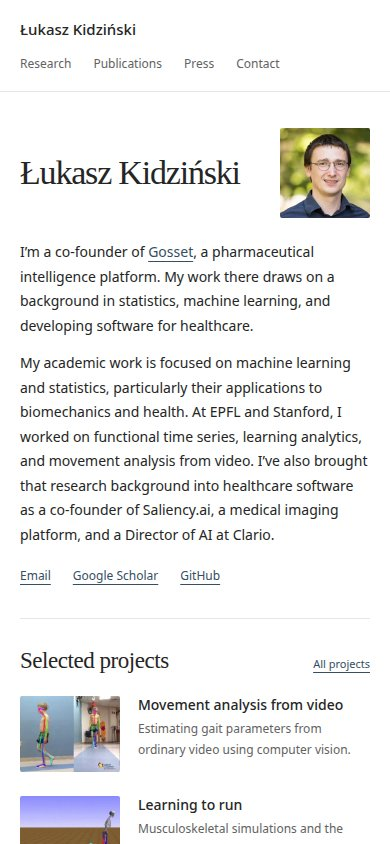
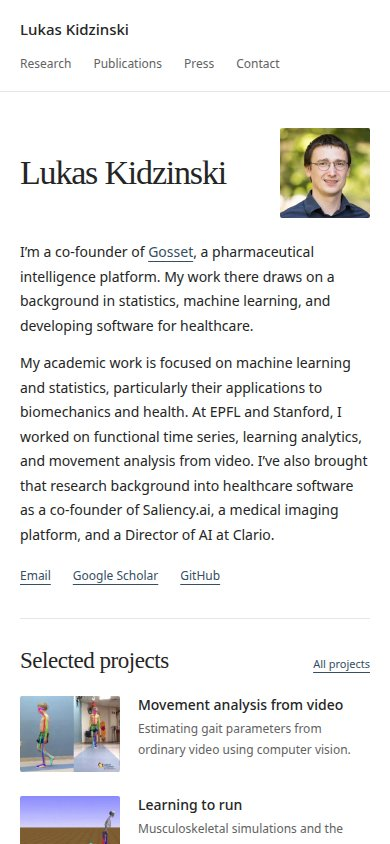
Use Lukas Kidzinski as the website display name

Changed region(s): [[0.2462, 0.1848, 0.6154, 0.2156], [0.1538, 0.0308, 0.3692, 0.0616]]

diff --git a/layouts/baseof.html b/layouts/baseof.html
@@ -14,7 +14,7 @@
   <meta property="og:description" content="{{ $description }}">
   <meta property="og:url" content="{{ .Permalink }}">
   <meta property="og:image" content="{{ "img/profile.jpg" | absURL }}">
-  <meta property="og:image:alt" content="Portrait of Łukasz Kidziński">
+  <meta property="og:image:alt" content="Portrait of {{ site.Title }}">
   <meta name="twitter:card" content="summary">
   <meta name="theme-color" content="#ffffff">
   <link rel="icon" href="{{ "favicon.svg" | relURL }}" type="image/svg+xml">
@@ -27,7 +27,7 @@
   <a class="skip-link" href="#main">Skip to content</a>
   <header class="site-header">
     <div class="shell header-inner">
-      <a class="wordmark" href="{{ site.Home.RelPermalink }}" aria-label="Łukasz Kidziński, home">Łukasz Kidziński</a>
+      <a class="wordmark" href="{{ site.Home.RelPermalink }}" aria-label="{{ site.Title }}, home">{{ site.Title }}</a>
       <nav aria-label="Main navigation">
         <div class="nav-links" id="nav-links">
           <a href="{{ site.Home.RelPermalink }}#research">Research</a>
@@ -39,6 +39,6 @@
     </div>
   </header>
   <main id="main" tabindex="-1">{{ block "main" . }}{{ end }}</main>
-  <footer class="site-footer shell"><span>© {{ now.Year }} Łukasz Kidziński</span><a href="{{ site.Params.github }}">GitHub</a></footer>
+  <footer class="site-footer shell"><span>© {{ now.Year }} {{ site.Title }}</span><a href="{{ site.Params.github }}">GitHub</a></footer>
 </body>
 </html>

diff --git a/layouts/home.html b/layouts/home.html
@@ -1,8 +1,8 @@
 {{ define "main" }}
 {{ $home := hugo.Data.home }}
 <section class="intro shell" id="about" aria-labelledby="intro-title">
-  <h1 id="intro-title">Łukasz Kidziński</h1>
-  <img class="portrait" src="{{ "img/modern/portrait.webp" | relURL }}" width="160" height="160" alt="Łukasz Kidziński" fetchpriority="high">
+  <h1 id="intro-title">{{ site.Title }}</h1>
+  <img class="portrait" src="{{ "img/modern/portrait.webp" | relURL }}" width="160" height="160" alt="{{ site.Title }}" fetchpriority="high">
   <div class="intro-copy">
     <p id="work">I’m a co-founder of <a href="https://gosset.ai/">Gosset</a>, a pharmaceutical intelligence platform. My work there draws on a background in statistics, machine learning, and developing software for healthcare.</p>
     <p>{{ $home.intro }}</p>

diff --git a/content/publication/opencap.md b/content/publication/opencap.md
@@ -1,7 +1,7 @@
 +++
 title = "OpenCap: Human movement dynamics from smartphone videos"
 date = "2023-10-19"
-authors = ["Scott D. Uhlrich", "Antoine Falisse", "Łukasz Kidziński", "Julie Muccini", "Michael Ko", "Akshay S. Chaudhari", "Jennifer L. Hicks", "Scott L. Delp"]
+authors = ["Scott D. Uhlrich", "Antoine Falisse", "Lukas Kidzinski", "Julie Muccini", "Michael Ko", "Akshay S. Chaudhari", "Jennifer L. Hicks", "Scott L. Delp"]
 publication = "PLOS Computational Biology"
 publication_types = ["2"]
 selected = true
@@ -13,6 +13,6 @@ url_code = "https://github.com/opencap-org/opencap-core"
 
 OpenCap combines video-based pose estimation, machine learning, and biomechanical simulation to estimate human movement and musculoskeletal forces from two or more smartphone cameras.
 
-Scott D. Uhlrich, Antoine Falisse, and Łukasz Kidziński contributed equally to this work.
+Scott D. Uhlrich, Antoine Falisse, and Lukas Kidzinski contributed equally to this work.
 
 Read the [published paper](https://doi.org/10.1371/journal.pcbi.1011462) for the methods, validation, and study limitations.

diff --git a/content/publication/gait-video.md b/content/publication/gait-video.md
@@ -1,7 +1,7 @@
 +++
 title = "Deep neural networks enable quantitative movement analysis using single-camera videos"
 date = "2020-08-13"
-authors = ["Łukasz Kidziński", "Bryan Yang", "Jennifer L. Hicks", "Apoorva Rajagopal", "Scott L. Delp", "Michael H. Schwartz"]
+authors = ["Lukas Kidzinski", "Bryan Yang", "Jennifer L. Hicks", "Apoorva Rajagopal", "Scott L. Delp", "Michael H. Schwartz"]
 publication = "Nature Communications"
 publication_types = ["2"]
 selected = true
@@ -13,6 +13,6 @@ projects = ["video-analysis"]
 
 We developed machine learning methods for estimating gait metrics from ordinary single-camera videos of children with cerebral palsy. The work explores how computer vision could make quantitative movement analysis more accessible.
 
-Łukasz Kidziński and Bryan Yang contributed equally to this work.
+Lukas Kidzinski and Bryan Yang contributed equally to this work.
 
 Read the [published paper](https://www.nature.com/articles/s41467-020-17807-z) for the methods, validation, and study limitations.

diff --git a/content/publication/dysgraphia.md b/content/publication/dysgraphia.md
@@ -3,7 +3,7 @@ title = "Automated human-level diagnosis of dysgraphia using a consumer tablet"
 date = "2018-11-05"
 
 # Authors. 
-authors = ["Thibault Asselborn", "Thomas Gargot", "Łukasz Kidziński", "Wafa Johal", "David Cohen", "Caroline Jolly", "Pierre Dillenbourg" ]
+authors = ["Thibault Asselborn", "Thomas Gargot", "Lukas Kidzinski", "Wafa Johal", "David Cohen", "Caroline Jolly", "Pierre Dillenbourg" ]
 
 # Publication type.
 # Legend:

diff --git a/README.md b/README.md
@@ -1,6 +1,6 @@
 # kidzinski.com
 
-Personal website for Łukasz Kidziński, built with Hugo and a small, local template system. No theme checkout, npm packages, web fonts, analytics scripts, or runtime framework are required.
+Personal website for Lukas Kidzinski, built with Hugo and a small, local template system. No theme checkout, npm packages, web fonts, analytics scripts, or runtime framework are required.
 
 ## Preview and build
 

diff --git a/content/publication/effect-size.md b/content/publication/effect-size.md
@@ -3,7 +3,7 @@ title = "Estimating the effect size of surgery to improve walking in children wi
 date = "2018-11-05"
 
 # Authors. 
-authors = ["Apoorva Rajagopal", "Łukasz Kidziński", "Alec S. McGlaughlin", "Jennifer L. Hicks", "Scott L. Delp", "Michael H. Schwartz"]
+authors = ["Apoorva Rajagopal", "Lukas Kidzinski", "Alec S. McGlaughlin", "Jennifer L. Hicks", "Scott L. Delp", "Michael H. Schwartz"]
 
 # Publication type.
 # Legend:

diff --git a/content/publication/orchestration.md b/content/publication/orchestration.md
@@ -3,7 +3,7 @@ title = "Orchestration Load Indicators and Patterns: In-the-wild Studies Using M
 date = "2017-06-02"
 
 # Authors. 
-authors = ["Luis P. Prieto", "Kshitij Sharma", "Łukasz Kidziński", "Pierre Dillenbourg"]
+authors = ["Luis P. Prieto", "Kshitij Sharma", "Lukas Kidzinski", "Pierre Dillenbourg"]
 
 # Publication type.
 # Legend:

diff --git a/content/publication/how-do-video.md b/content/publication/how-do-video.md
@@ -3,7 +3,7 @@ title = "How Do In-video Interactions Reflect Perceived Video Difficulty?"
 date = "2015-06-02"
 
 # Authors. 
-authors = ["Nan Li", "Łukasz Kidziński", "Patrick Jermann", "Pierre Dillenbourg"]
+authors = ["Nan Li", "Lukas Kidzinski", "Patrick Jermann", "Pierre Dillenbourg"]
 
 # Publication type.
 # Legend:

diff --git a/content/publication/periodically-correlated.md b/content/publication/periodically-correlated.md
@@ -3,7 +3,7 @@ title = "Principal component analysis of periodically correlated functional time
 date = "2017-07-01"
 
 # Authors. 
-authors = ["Łukasz Kidziński", "Piotr Kokoszka", "Neda Mohammadi Jouzdani"]
+authors = ["Lukas Kidzinski", "Piotr Kokoszka", "Neda Mohammadi Jouzdani"]
 
 # Publication type.
 # Legend:

diff --git a/content/publication/moocs-what-tell.md b/content/publication/moocs-what-tell.md
@@ -3,7 +3,7 @@ title = "MOOC video interaction patterns: What do they tell us?"
 date = "2015-06-02"
 
 # Authors. 
-authors = ["Nan Li", "Łukasz Kidziński", "Patrick Jermann", "Pierre Dillenbourg"]
+authors = ["Nan Li", "Lukas Kidzinski", "Patrick Jermann", "Pierre Dillenbourg"]
 
 # Publication type.
 # Legend:

diff --git a/content/publication/head.md b/content/publication/head.md
@@ -3,7 +3,7 @@ title = "Translating head motion into attention-towards processing of student’
 date = "2015-06-02"
 
 # Authors. 
-authors = ["Mirko Raca", "Łukasz Kidziński", "Pierre Dillenbourg"]
+authors = ["Mirko Raca", "Lukas Kidzinski", "Pierre Dillenbourg"]
 
 # Publication type.
 # Legend:
